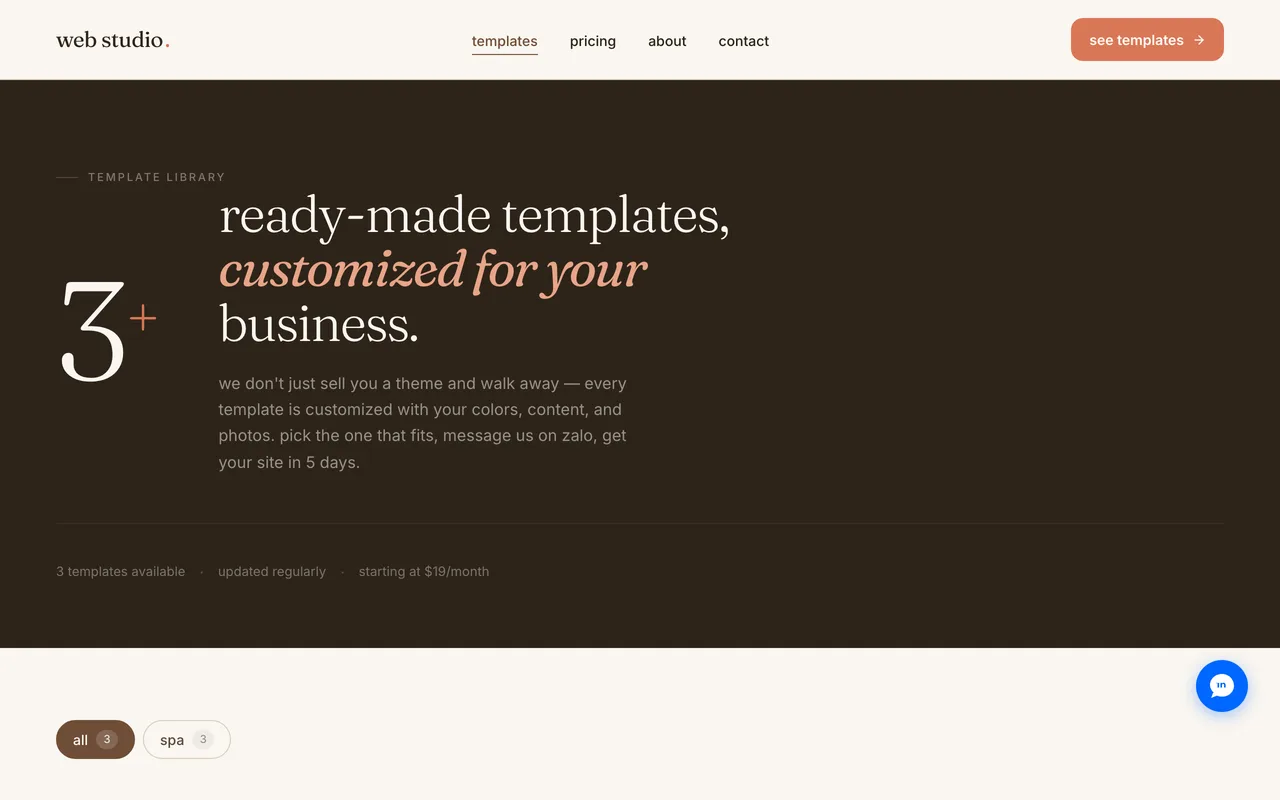
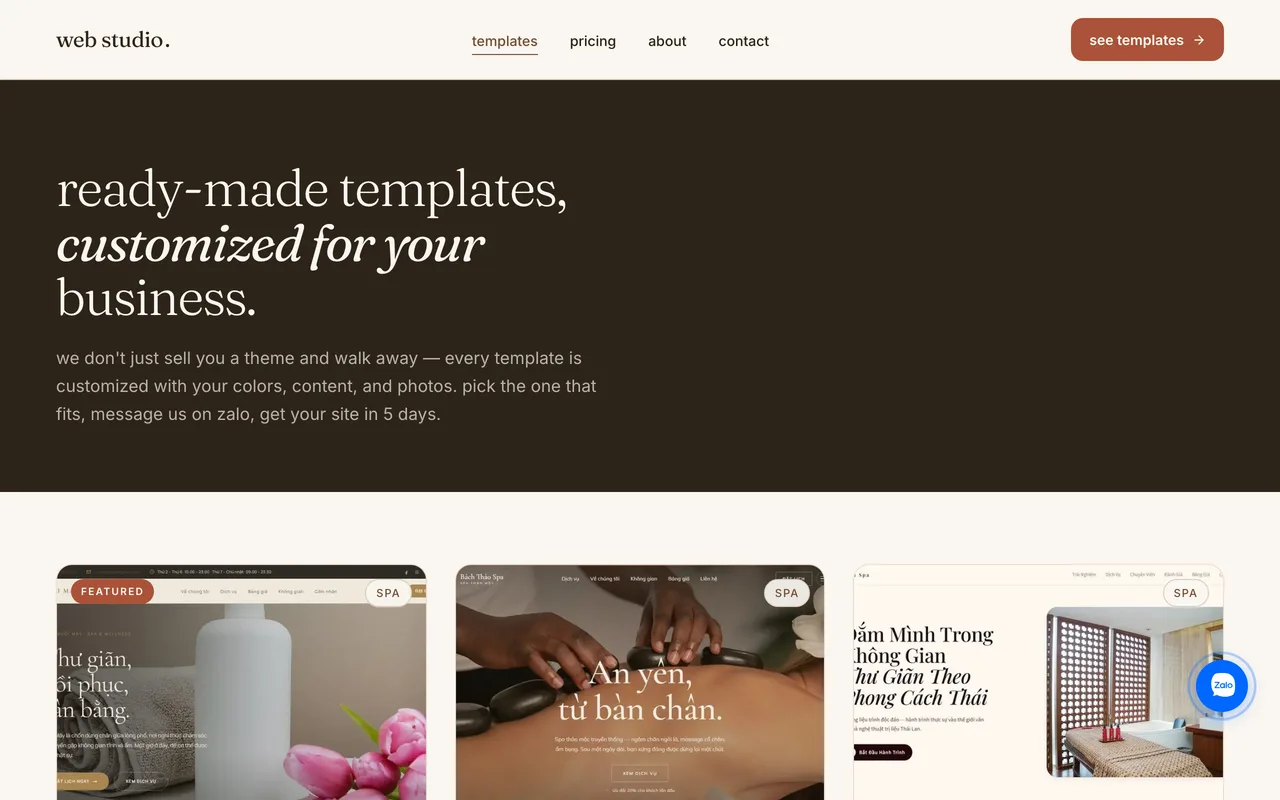
fix: README described a site that had moved on, and one claim was wrong
The homepage screenshot — the first image anyone sees — was from July.
It showed a hero that no longer exists (polaroid, "SINCE 2024" badge,
two CTAs; the hero is a full-bleed photo with one), a template called
"brown coffee shop, d.3" that was deleted, and the lede advertising
"nail salons, spas, cafes, gyms", the exact overclaim removed weeks
ago. The catalog shot showed an industry filter that no longer renders.
Both recaptured against the current build.

"Template catalog with industry filter" oversold it: the bar hides
itself while every template is a spa, because one pill returning the
whole list is not a filter. Said plainly now.

"One manifest drives everything" listed the sitemap among the things
deriving from TEMPLATE_MANIFEST. It did not — sitemap.ts queried Sanity
alone, while templates/[slug] builds its static params from the union
of Sanity and the manifest. A coded template with no document yet was
therefore browsable but absent from the sitemap. sitemap.ts takes the
same union, which makes the sentence true and closes the gap.

Getting-started block gains the two commands it was missing, lint and
test:e2e.

diff --git a/src/app/sitemap.ts b/src/app/sitemap.ts
@@ -1,6 +1,7 @@
 import type { MetadataRoute } from "next";
 import { client } from "@/sanity/lib/client";
 import { allTemplatesQuery } from "@/lib/queries";
+import { TEMPLATE_MANIFEST } from "@/lib/templates";
 import type { Template } from "@/types";
 
 const BASE_URL =
@@ -40,8 +41,15 @@ export default async function sitemap(): Promise<MetadataRoute.Sitemap> {
     },
   ];
 
-  const templateRoutes: MetadataRoute.Sitemap = templates.map((t) => ({
-    url: `${BASE_URL}/templates/${t.slug}`,
+  // Sanity plus the manifest, the same union generateStaticParams builds in
+  // templates/[slug]. Querying Sanity alone left a coded template that has no
+  // document yet browsable but missing from the sitemap.
+  const slugs = Array.from(
+    new Set([...templates.map((t) => t.slug), ...TEMPLATE_MANIFEST.map((t) => t.slug)])
+  );
+
+  const templateRoutes: MetadataRoute.Sitemap = slugs.map((slug) => ({
+    url: `${BASE_URL}/templates/${slug}`,
     lastModified: new Date(),
     changeFrequency: "monthly",
     priority: 0.7,

diff --git a/README.md b/README.md
@@ -10,7 +10,7 @@ This repository is a **portfolio project**: it contains the full marketing site,
 
 ## What's inside
 
-- **Marketing site** — homepage, template catalog with industry filter, about, contact
+- **Marketing site** — homepage, template catalog, about, contact. The catalog carries an industry filter that hides itself while every template is a spa, rather than offering one pill that returns the whole list
 - **3 landing page templates**, each with its own deliberate art direction (see below)
 - **Embedded Sanity Studio** at `/studio` for editing every page and template
 - **Order pipeline** — contact form → rate-limited API → Sanity order document → email notification (Resend) → admin dashboard behind HTTP Basic Auth
@@ -91,8 +91,10 @@ The dataset can stay empty — every page and template renders from the typed de
 
 ```bash
 pnpm dev        # http://localhost:3000  (/studio for the CMS)
-pnpm test       # unit tests (Vitest)
+pnpm lint
 pnpm typecheck
+pnpm test       # unit tests (Vitest)
+pnpm test:e2e   # Playwright, starts its own server on :3100
 pnpm build
 ```
 
